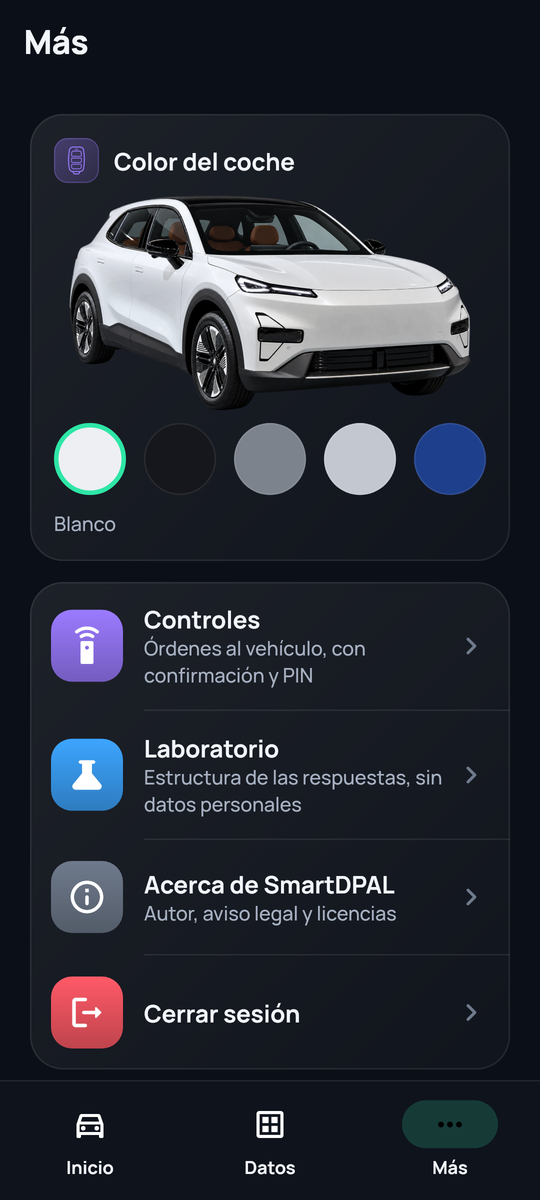
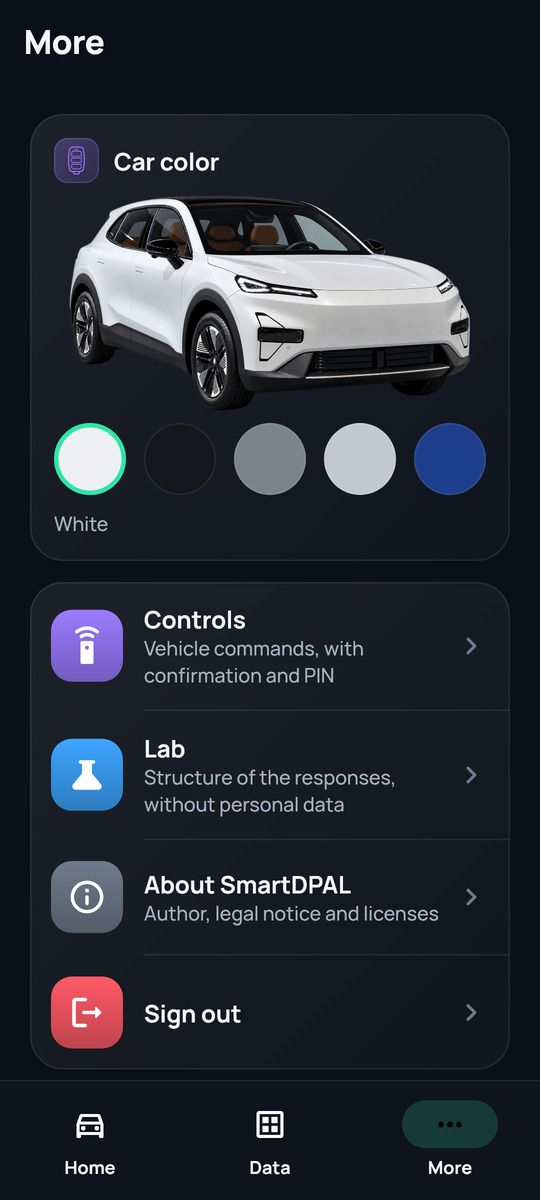
README: English screenshots and languages

diff --git a/README.md b/README.md
@@ -62,6 +62,9 @@ SHA-256: c2:f2:4b:7d:02:d8:c5:04:0c:77:2b:a7:b4:5c:0f:33:33:86:60:2d:e4:a7:b2:18
 **Bluetooth key, vehicle sharing and remote parking**
 - Present in the app but **locked**. Bluetooth comfort commands exist behind a safety switch and have only been tested against a simulator; anything that could move the car is blocked on purpose.
 
+**Languages**
+- English and Spanish, following your phone's language, with a language switch on the sign-in screen and under **More → Language**. More languages can be added without code changes.
+
 **Everything else**
 - Dark, accessible interface (large text and screen-reader friendly, reduced-motion aware).
 - About screen with author links, update check, full disclaimer and open-source licences.
